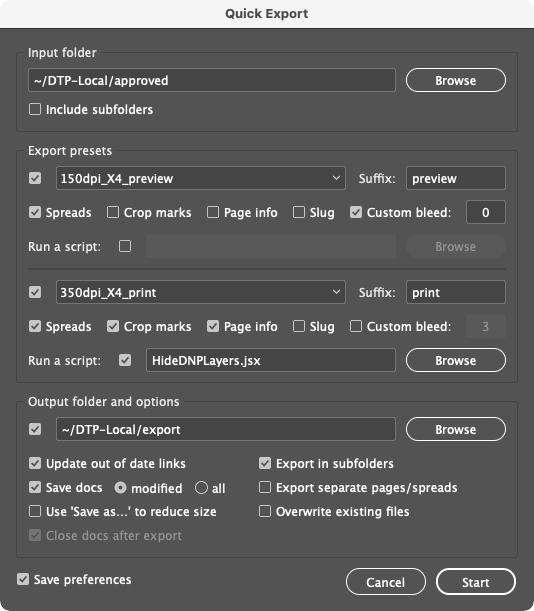
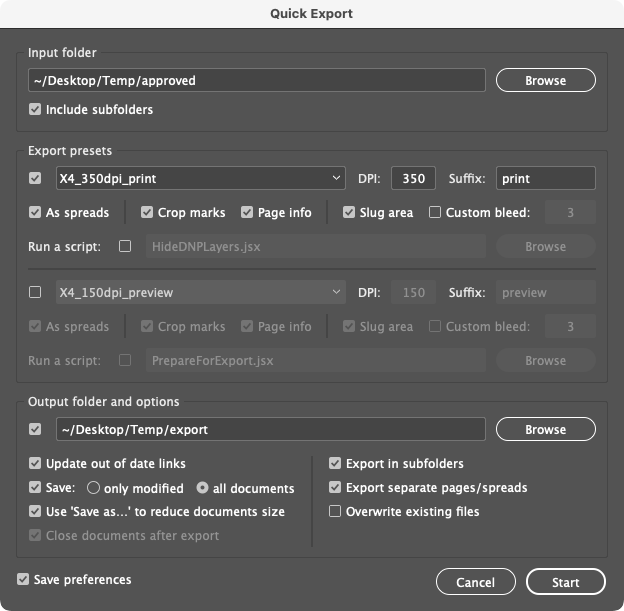
`doc` Update README

diff --git a/docs/README.html b/docs/README.html
@@ -417,7 +417,7 @@ pre[data-line] .line-highlight[data-end]:after {
 <p><strong>Name</strong>: swatch name<br>
 <strong>Color model</strong>: <code>process</code> or <code>spot</code> (defaults to <code>process</code>)<br>
 <strong>Color space</strong>: <code>cmyk</code>, <code>rgb</code> or <code>lab</code> (defaults to <code>cmyk</code>)<br>
-<strong>Values</strong>: 3 values in 0-255 range for RGB; 4 values in 0-100 range for CMYK; 3 values in 0-100 (L), -128-127 (A and B) range for Lab<br>
+<strong>Values</strong>: 3 values in 0-255 range for RGB; 4 values in 0-100 range for CMYK; 3 values in 0-100 (L), -128-127 (A and B) range for Lab; values can be separated by <code></code>, <code>,</code>, <code>|</code> or <code>/</code><br>
 <strong>Variants</strong>: a list of swatches that will be replaced by the base swatch (case insensitive; <code>*</code> and <code>?</code> wildcards accepted)</p>
 </blockquote>
 <p>You can use <a href="#swatchessave"><strong><code>SwatchesSave</code></strong></a> to get a tab delimited list of swatches from any document.</p>
@@ -863,9 +863,8 @@ pre[data-line] .line-highlight[data-end]:after {
 <h4 class="mume-header" id="spreadstofiles"><strong><code>SpreadsToFiles</code></strong></h4>
 
 <p>Saves each spread of the active document to a separate file.</p>
-<p>Usually the script will ask for an index list for naming files, like <code>-123</code>, where <code>-</code> is the separator and <code>123</code> is the index list. Example: <strong><code>Document.indd</code></strong> with three spreads will be split into <strong><code>Document-1.indd</code></strong>, <strong><code>Document-2.indd</code></strong> and <strong><code>Document-3.indd</code></strong>.</p>
-<p>But if the document name ends with a similar suffix equal in length to the number of pages, the script will use it for the index list: <strong><code>Document_ABC.indd</code></strong> with three spreads will be split into <strong><code>Document_A.indd</code></strong>, <strong><code>Document_B.indd</code></strong> and <strong><code>Document_C.indd</code></strong>.</p>
-<p>If the file name contains a <code>#</code>, the index will be placed in that position.</p>
+<p>If the file name has a suffix equal in length to the number of spreads, it will be used as the index list; for example a document with three spreads named <strong><code>Document_ABC.indd</code></strong> will be split into <strong><code>Document_A.indd</code></strong> / <strong><code>Document_B.indd</code></strong> / <strong><code>Document_C.indd</code></strong>; otherwise, the script will ask for an index list for naming files, like <code>-123</code>, where <code>-</code> is the separator and <code>123</code> is the index list.</p>
+<p>The index will be placed where the first <code>#</code> is detected, or at the end of the file name.</p>
 <h4 class="mume-header" id="layerstospreads"><strong><code>LayersToSpreads</code></strong></h4>
 
 <p>Moves all layers of the active document to separate spreads (the document must have a single spread).</p>
@@ -876,16 +875,18 @@ pre[data-line] .line-highlight[data-end]:after {
 <h4 class="mume-header" id="quickexport-smallesmall"><strong><code>QuickExport</code></strong> <small>&#x2303;E</small></h4>
 
 <p>Exports to PDF all opened documents or, with nothing opened, all documents from a folder.</p>
-<p>For convenience, some export options are directly accessible: export as pages/spreads, include crop marks, page information, slug area, you can set a custom bleed. There are two export presets that can be used simultaneously or one at a time:</p>
+<p>For convenience, some export options can be easily changed from the preset settings: resolution, export as pages/spreads, include crop marks, page information, slug area, and you can set a custom bleed.</p>
+<p>There are two export presets that can be used simultaneously or one at a time:</p>
 <p><img src="img/script-quickexport.png" alt="Quick export"></p>
-<p>The text from the <strong>Suffix</strong> field will be appended to the exported file name (it&#x2019;s autodetected if the preset ends with <code>_suffix</code>). If <strong>Export in subfolders</strong> is checked, the suffix (up to the first <code>+</code><sup class="footnote-ref"><a href="#fn4" id="fnref4">[4]</a></sup>) will also be used for the subfolder name.</p>
-<p>It can run a JavaScript or AppleScript before exporting, e.g., one of the following:</p>
+<p>The text from the <strong>Suffix</strong> field will be appended to the exported file name (everything in the preset name after the last <code>_</code> will be autodetected as suffix).</p>
+<p>If <strong>Export in subfolders</strong> is checked, subfolders will be created from the suffix (the text after <code>+</code> is ignored<sup class="footnote-ref"><a href="#fn4" id="fnref4">[4]</a></sup>).</p>
+<p>It can also run a JavaScript or AppleScript before exporting, e.g., one of the following:</p>
 <h4 class="mume-header" id="markvisiblearea"><strong><code>MarkVisibleArea</code></strong></h4>
 
 <p>Creates a frame the size of the page margins on the <strong>visible area</strong> layer. It will use the <strong>Visible area</strong> swatch, which will be created with the values R=255 G=180 B=0 if it doesn&#x2019;t exist.</p>
 <h4 class="mume-header" id="prepareforexport"><strong><code>PrepareForExport</code></strong></h4>
 
-<p>Hides <strong>covered areas</strong>, <strong>visible area</strong>, <strong>safety margins</strong>, <strong>safe area</strong>, <strong>segmentation</strong> and <strong>guides</strong> layers and moves all page objects from <strong>dielines</strong>, <strong>die cut</strong>, <strong>varnish</strong>, <strong>uv</strong>, <strong>foil</strong>, <strong>silver</strong> and <strong>white</strong> to separate spreads.</p>
+<p>Hides <strong>covered areas</strong>, <strong>visible area</strong>, <strong>safety margins</strong>, <strong>safe area</strong>, <strong>segmentation</strong>, <strong>guides</strong>, and all layers starting with either a dot or a hyphen; moves all page objects from <strong>varnish</strong>, <strong>uv</strong>, <strong>foil</strong>, <strong>silver</strong> and <strong>white</strong> to separate spreads.</p>
 <h4 class="mume-header" id="showdnplayers-hidednplayers"><strong><code>ShowDNPLayers</code></strong> / <strong><code>HideDNPLayers</code></strong></h4>
 
 <p>Shows or hides the following &#x201C;do-not-print&#x201D; layers: <strong>covered areas</strong>, <strong>visible area</strong>, <strong>*vi?ib*</strong>, <strong>vis?*</strong>, <strong>safety margins</strong>, <strong>safe area</strong>, <strong>segmentation</strong>, <strong>rahmen</strong> and <strong>sicht*</strong>, and all layers starting with either a dot or a hyphen.</p>
@@ -1011,7 +1012,7 @@ pre[data-line] .line-highlight[data-end]:after {
 <p>All scripts are created by me unless otherwise noted.</p>
 <p>&#xA9; 2020-2022 Paul Chiorean &lt;jpeg AT basement.ro&gt;.<br>
 The code is released under the MIT License (see <a href="LICENSE.txt">LICENSE.txt</a>).</p>
-<p>README.md &#x2022; August 9, 2022</p>
+<p>README.md &#x2022; August 22, 2022</p>
 <hr class="footnotes-sep">
 <section class="footnotes">
 <ol class="footnotes-list">

diff --git a/docs/README.md b/docs/README.md
@@ -80,7 +80,7 @@ Adds swatches defined in a TSV file[^2] named [**`swatches.txt`**](samples/swatc
 > **Name**: swatch name\
 > **Color model**: `process` or `spot` (defaults to `process`)\
 > **Color space**: `cmyk`, `rgb` or `lab` (defaults to `cmyk`)\
-> **Values**: 3 values in 0-255 range for RGB; 4 values in 0-100 range for CMYK; 3 values in 0-100 (L), -128-127 (A and B) range for Lab\
+> **Values**: 3 values in 0-255 range for RGB; 4 values in 0-100 range for CMYK; 3 values in 0-100 (L), -128-127 (A and B) range for Lab; values can be separated by ` `, `,`, `|` or `/`\
 > **Variants**: a list of swatches that will be replaced by the base swatch (case insensitive; `*` and `?` wildcards accepted)
 
 You can use [**`SwatchesSave`**](#swatchessave) to get a tab delimited list of swatches from any document.
@@ -282,11 +282,9 @@ Combines the open documents, sorted alphabetically.
 #### **`SpreadsToFiles`**
 Saves each spread of the active document to a separate file.
 
-Usually the script will ask for an index list for naming files, like `-123`, where `-` is the separator and `123` is the index list. Example: **`Document.indd`** with three spreads will be split into **`Document-1.indd`**, **`Document-2.indd`** and **`Document-3.indd`**.
+If the file name has a suffix equal in length to the number of spreads, it will be used as the index list; for example a document with three spreads named **`Document_ABC.indd`** will be split into **`Document_A.indd`** / **`Document_B.indd`** / **`Document_C.indd`**; otherwise, the script will ask for an index list for naming files, like `-123`, where `-` is the separator and `123` is the index list.
 
-But if the document name ends with a similar suffix equal in length to the number of pages, the script will use it for the index list: **`Document_ABC.indd`** with three spreads will be split into **`Document_A.indd`**, **`Document_B.indd`** and **`Document_C.indd`**.
-
-If the file name contains a `#`, the index will be placed in that position.
+The index will be placed where the first `#` is detected, or at the end of the file name.
 
 #### **`LayersToSpreads`**
 Moves all layers of the active document to separate spreads (the document must have a single spread).
@@ -300,19 +298,23 @@ You can use **`SpreadsToFiles`** to save them in separate documents.
 #### **`QuickExport`** <small>⌃E</small>
 Exports to PDF all opened documents or, with nothing opened, all documents from a folder.
 
-For convenience, some export options are directly accessible: export as pages/spreads, include crop marks, page information, slug area, you can set a custom bleed. There are two export presets that can be used simultaneously or one at a time:
+For convenience, some export options can be easily changed from the preset settings: resolution, export as pages/spreads, include crop marks, page information, slug area, and you can set a custom bleed.
+
+There are two export presets that can be used simultaneously or one at a time:
 
 ![Quick export](img/script-quickexport.png)
 
-The text from the **Suffix** field will be appended to the exported file name (it's autodetected if the preset ends with `_suffix`). If **Export in subfolders** is checked, the suffix (up to the first `+`[^4]) will also be used for the subfolder name.
+The text from the **Suffix** field will be appended to the exported file name (everything in the preset name after the last `_` will be autodetected as suffix).
 
-It can run a JavaScript or AppleScript before exporting, e.g., one of the following:
+If **Export in subfolders** is checked, subfolders will be created from the suffix (the text after `+` is ignored[^4]).
+
+It can also run a JavaScript or AppleScript before exporting, e.g., one of the following:
 
 #### **`MarkVisibleArea`**
 Creates a frame the size of the page margins on the **visible area** layer. It will use the **Visible area** swatch, which will be created with the values R=255 G=180 B=0 if it doesn't exist.
 
 #### **`PrepareForExport`**
-Hides **covered areas**, **visible area**, **safety margins**, **safe area**, **segmentation** and **guides** layers and moves all page objects from **dielines**, **die cut**, **varnish**, **uv**, **foil**, **silver** and **white** to separate spreads.
+Hides **covered areas**, **visible area**, **safety margins**, **safe area**, **segmentation**, **guides**, and all layers starting with either a dot or a hyphen; moves all page objects from **varnish**, **uv**, **foil**, **silver** and **white** to separate spreads.
 
 #### **`ShowDNPLayers`** / **`HideDNPLayers`**
 Shows or hides the following “do-not-print” layers: **covered areas**, **visible area**, **\*vi?ib\***, **vis?\***, **safety margins**, **safe area**, **segmentation**, **rahmen** and **sicht\***, and all layers starting with either a dot or a hyphen.
@@ -417,7 +419,7 @@ All scripts are created by me unless otherwise noted.
 © 2020-2022 Paul Chiorean \<jpeg AT basement.ro\>.\
 The code is released under the MIT License (see [LICENSE.txt](LICENSE.txt)).
 
-README.md • August 9, 2022
+README.md • August 22, 2022
 
 [^1]: Some of the scripts are meant to be used mainly on posters and such, not on documents with many pages or flowing text.
 [^2]: The TSV file can be saved locally (in the active document folder or its parent folder) or as a global default (on the desktop, next to the script or in **`Indentz`** root); local files and files starting with `_` take precedence. You can include another TSV file by inserting **`@path/to/file.txt`** in the desired position, or the global default with **`@default`**. Blank lines and those prefixed with `#` are ignored. You can split a very long line into multiple lines with a backslash (`\`) added at the end of each segment.
